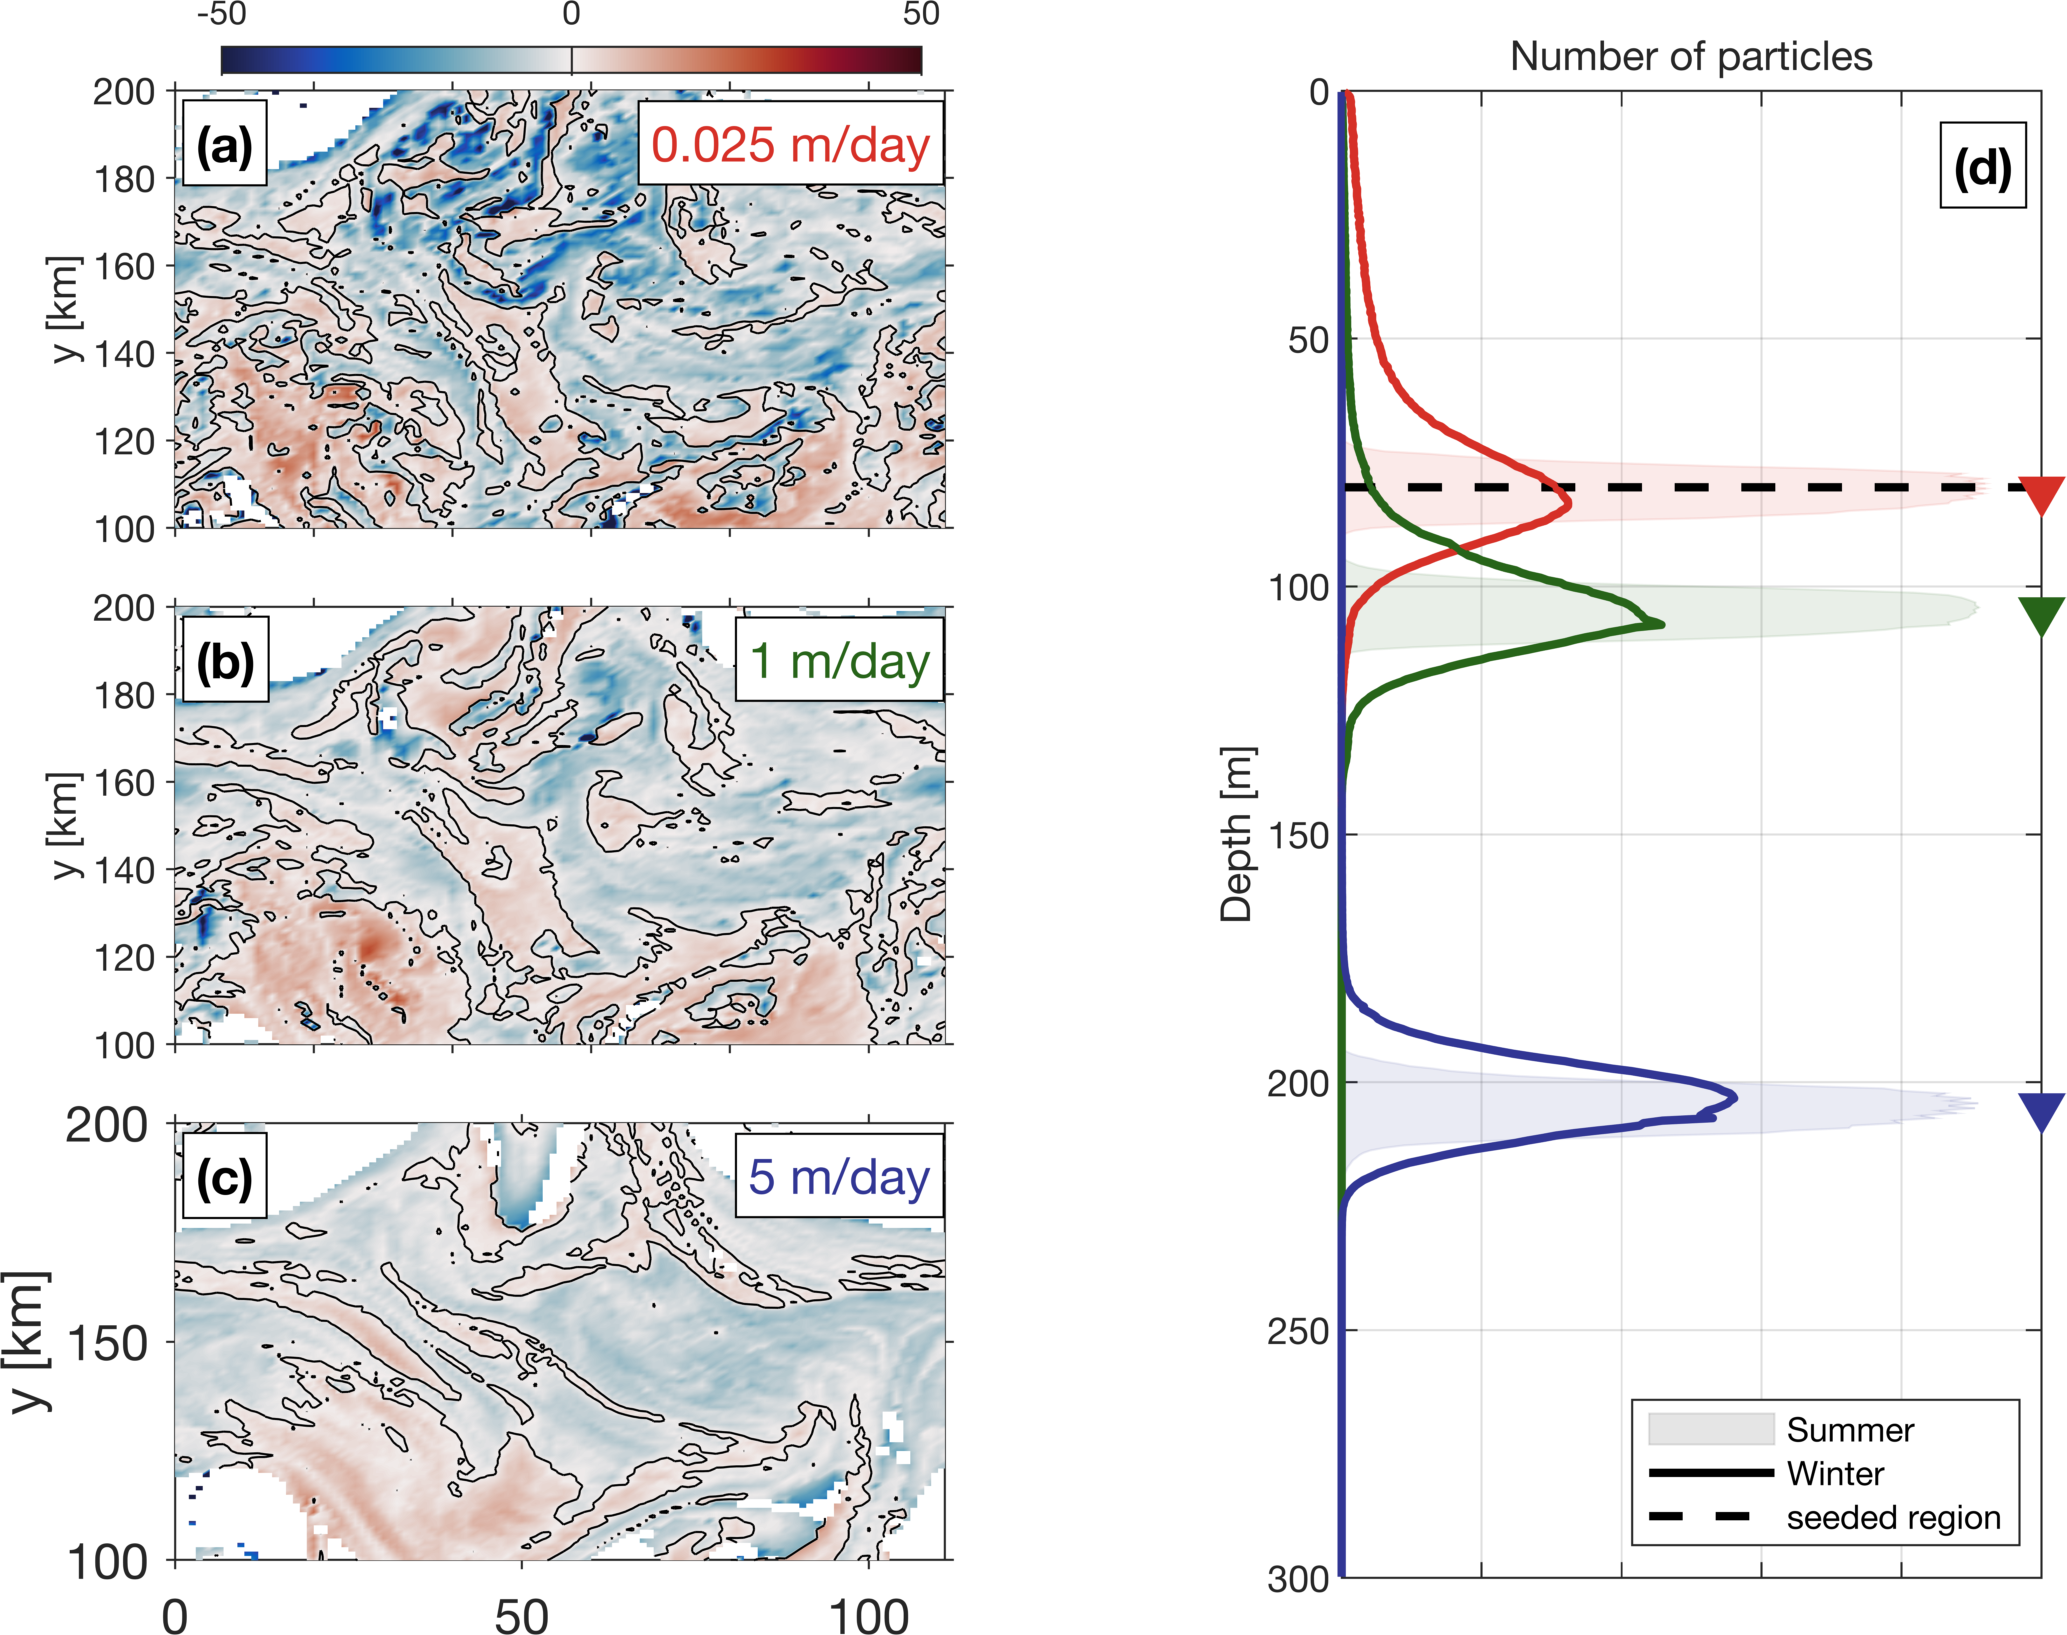
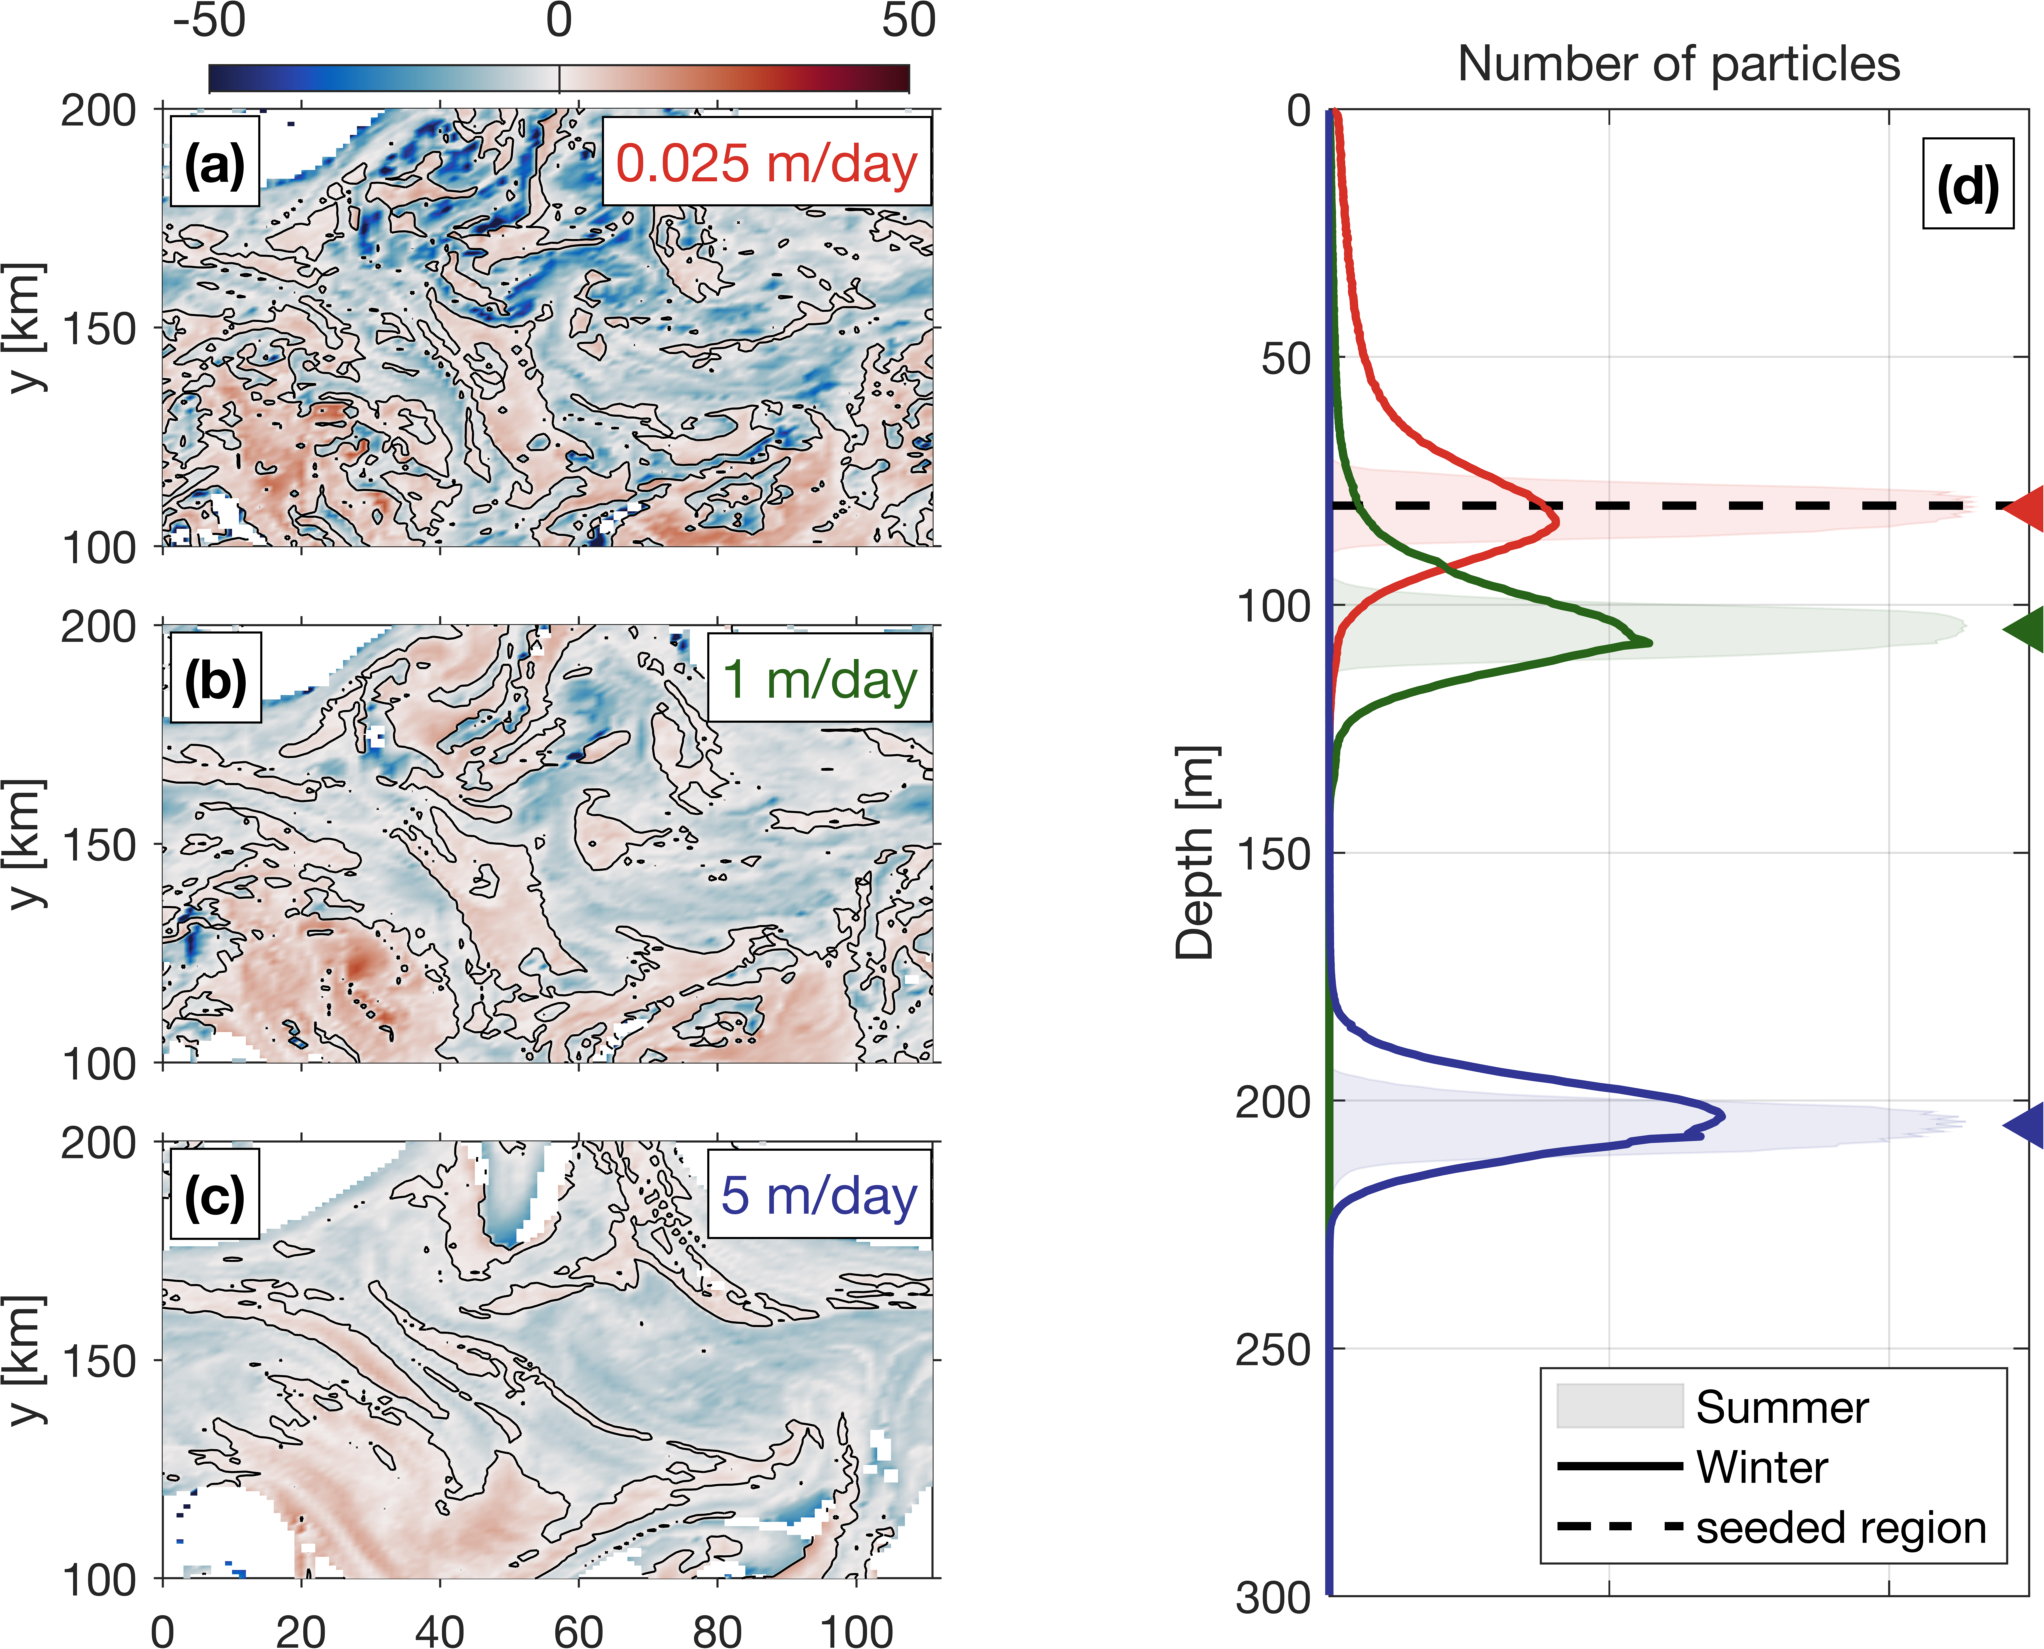
yet another figure tweaking

diff --git a/figures/code/Fig6_v5.m b/figures/code/Fig6_v5.m
@@ -58,37 +58,37 @@ figure
 subplot(3,2,1)
 pcolor(0:rez:111,100:rez:200,medi0025'); shading interp
 cmocean('balance'); caxis([-50 50])
-set(gca,'fontsize',9,'xticklabels',{},'tickdir','out')
-H = colorbar; set(H,'location','northoutside','TickLength',0.04)
+set(gca,'fontsize',11,'xticklabels',{},'tickdir','out')
+H = colorbar; set(H,'location','northoutside','TickLength',0.04,'fontsize',12)
 hold on
 contour(0:rez:111,100:rez:200,medi0025',[0 0],'k')
 axis tight; ylabel('y [km]')
 set(gca,'position',[0.1 .66 .33 .25])
 set(H,'position',[.12 .92 .3 .015])
-text(109,188,'0.025 m/day','BackgroundColor','w','EdgeColor','k','fontsize',12,'HorizontalAlignment','right','color',color0025)
-text(3,188,'(a)','BackgroundColor','w','EdgeColor','k','fontsize',12,'HorizontalAlignment','left','fontweight','b')
+text(109,188,'0.025 m/day','BackgroundColor','w','EdgeColor','k','fontsize',13,'HorizontalAlignment','right','color',color0025)
+text(3,188,'(a)','BackgroundColor','w','EdgeColor','k','fontsize',13,'HorizontalAlignment','left','fontweight','b')
 
 subplot(3,2,3)
 pcolor(0:rez:111,100:rez:200,medi1'); shading interp
 cmocean('balance'); caxis([-50 50])
-set(gca,'fontsize',9,'xticklabels',{},'tickdir','out')
+set(gca,'fontsize',11,'xticklabels',{},'tickdir','out')
 hold on
 contour(0:rez:111,100:rez:200,medi1',[0 0],'k')
 axis tight; ylabel('y [km]')
 set(gca,'position',[0.1 .365 .33 .25])
-text(109,188,'1 m/day','BackgroundColor','w','EdgeColor','k','fontsize',12,'HorizontalAlignment','right','color',color1);
-text(3,188,'(b)','BackgroundColor','w','EdgeColor','k','fontsize',12,'HorizontalAlignment','left','fontweight','b')
+text(109,188,'1 m/day','BackgroundColor','w','EdgeColor','k','fontsize',13,'HorizontalAlignment','right','color',color1);
+text(3,188,'(b)','BackgroundColor','w','EdgeColor','k','fontsize',13,'HorizontalAlignment','left','fontweight','b')
 
 subplot(3,2,5)
 pcolor(0:rez:111,100:rez:200,medi5'); shading interp
 cmocean('balance'); caxis([-50 50])
-set(gca,'fontsize',12,'tickdir','out')
+set(gca,'fontsize',11,'tickdir','out')
 hold on
 contour(0:rez:111,100:rez:200,medi5',[0 0],'k')
 axis tight; ylabel('y [km]')
 set(gca,'position',[0.1 .07 .33 .25])
-text(109,188,'5 m/day','BackgroundColor','w','EdgeColor','k','fontsize',12,'HorizontalAlignment','right','color',color5);
-text(3,188,'(c)','BackgroundColor','w','EdgeColor','k','fontsize',12,'HorizontalAlignment','left','fontweight','b')
+text(109,188,'5 m/day','BackgroundColor','w','EdgeColor','k','fontsize',13,'HorizontalAlignment','right','color',color5);
+text(3,188,'(c)','BackgroundColor','w','EdgeColor','k','fontsize',13,'HorizontalAlignment','left','fontweight','b')
 
 % Compute PDFs
 Z = 0:.5:300;
@@ -104,7 +104,7 @@ Z = (Z(1:end-1)+Z(2:end))/2;
 subplot(3,2,[2 4 6])
 h1 = patch([N0025s 0 0 N0025s(1)],-[Z Z(end) Z(1) Z(1)],'k','edgecolor','k','facealpha',0.1,'edgealpha',.1);
 patch([N0025s 0 0 N0025s(1)],[Z Z(end) Z(1) Z(1)],color0025,'edgecolor',color0025,'facealpha',0.1,'edgealpha',.1);
-hold on; ylim([0 300])
+hold on; ylim([0 300]);xlim([0 0.05])
 patch([N1s 0 0 N1s(1)],[Z Z(end) Z(1) Z(1)],color1,'edgecolor',color1,'facealpha',0.1,'edgealpha',.1)
 patch([N5s 0 0 N5s(1)],[Z Z(end) Z(1) Z(1)],color5,'edgecolor',color5,'facealpha',0.1,'edgealpha',.1)
 h2 = plot(N0025,-Z,'color','k','LineWidth',2);
@@ -112,20 +112,21 @@ plot(N0025,Z,'color',color0025,'LineWidth',2);
 plot(N1,Z,'color',color1,'LineWidth',2);
 plot(N5,Z,'color',color5,'LineWidth',2);
 xlabel('Number of particles');ylabel('Depth [m]')
-set(gca,'XAxisLocation','top','FontSize',9,'YDir','reverse','XTickLabel',{})
+set(gca,'XAxisLocation','top','FontSize',11,'YDir','reverse','XTickLabel',{})
 grid on; box on
 h3 = line(get(gca,'xlim'),[80 80],'color','k','linestyle','--','linewidth',2);
 plot(N0025,Z,'color',color0025,'LineWidth',1.5)
 plot(N1,Z,'color',color1,'LineWidth',1.5)
 plot(N5,Z,'color',color5,'LineWidth',1.5)
 set(gca,'Position',[0.6 0.06 0.3 0.85])
-text(max(get(gca,'xlim'))-.002,15,'(d)','BackgroundColor','w','EdgeColor','k','fontsize',12,'HorizontalAlignment','right','VerticalAlignment','middle','fontweight','b')
+text(max(get(gca,'xlim'))-.002,15,'(d)','BackgroundColor','w','EdgeColor','k','fontsize',13,'HorizontalAlignment','right','VerticalAlignment','middle','fontweight','b')
 
 % Mark the reference depth for vertical displacement
-scatter(max(get(gca,'xlim')),80+0.025*25,100,'v','filled','markerfacecolor',color0025)
-scatter(max(get(gca,'xlim')),80+1*25,100,'v','filled','markerfacecolor',color1)
-scatter(max(get(gca,'xlim')),80+5*25,100,'v','filled','markerfacecolor',color5)
-legend([h1 h2 h3],'Summer','Winter','seeded region','location','southeast')
+scatter(max(get(gca,'xlim')),80+0.025*25,100,'<','filled','markerfacecolor',color0025)
+scatter(max(get(gca,'xlim')),80+1*25,100,'<','filled','markerfacecolor',color1)
+scatter(max(get(gca,'xlim')),80+5*25,100,'<','filled','markerfacecolor',color5)
+H = legend([h1 h2 h3],'Summer','Winter','seeded region','location','southeast');
+set(H,'fontsize',11)
 
 set(gcf,'color','w')
 export_fig -r300 Fig6.png
